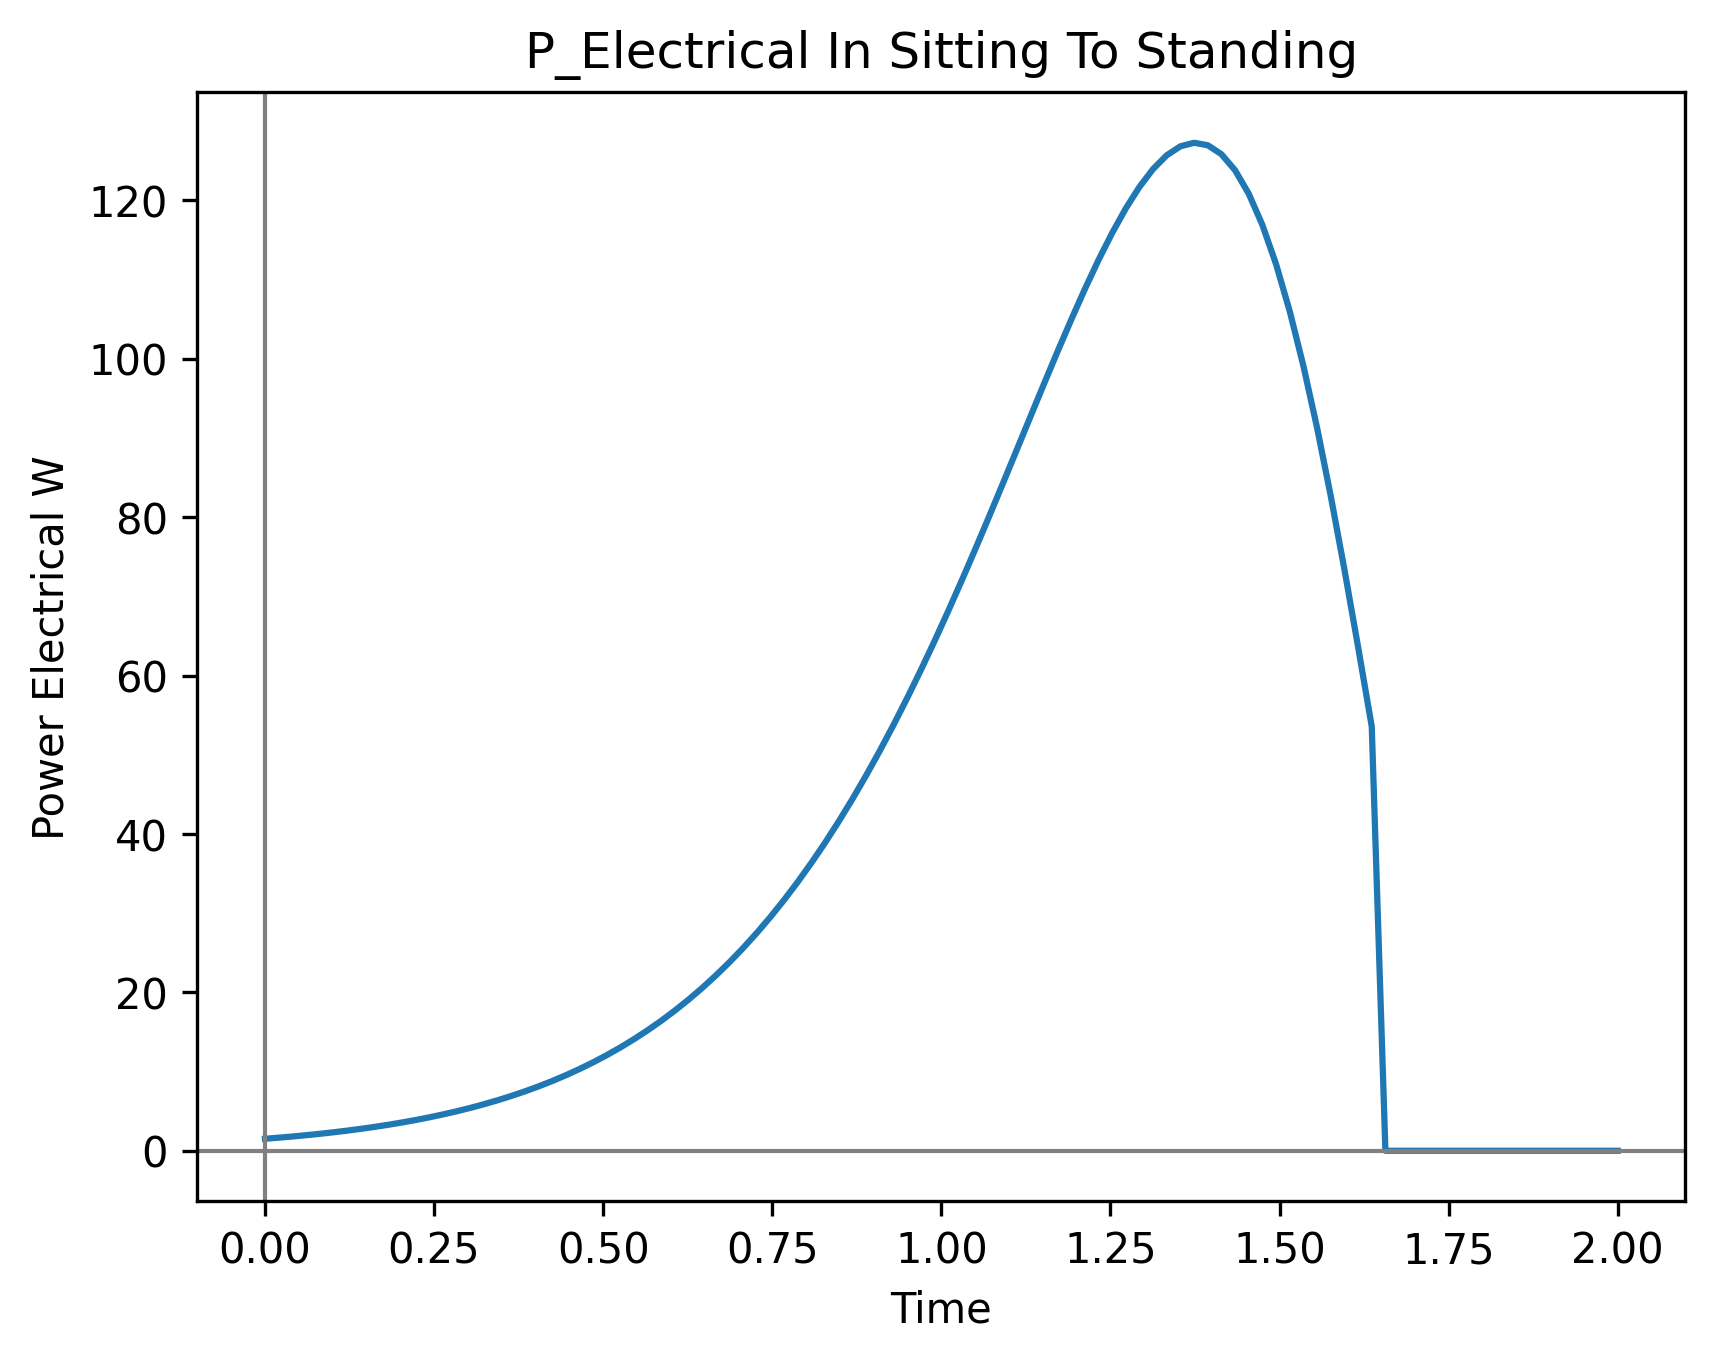
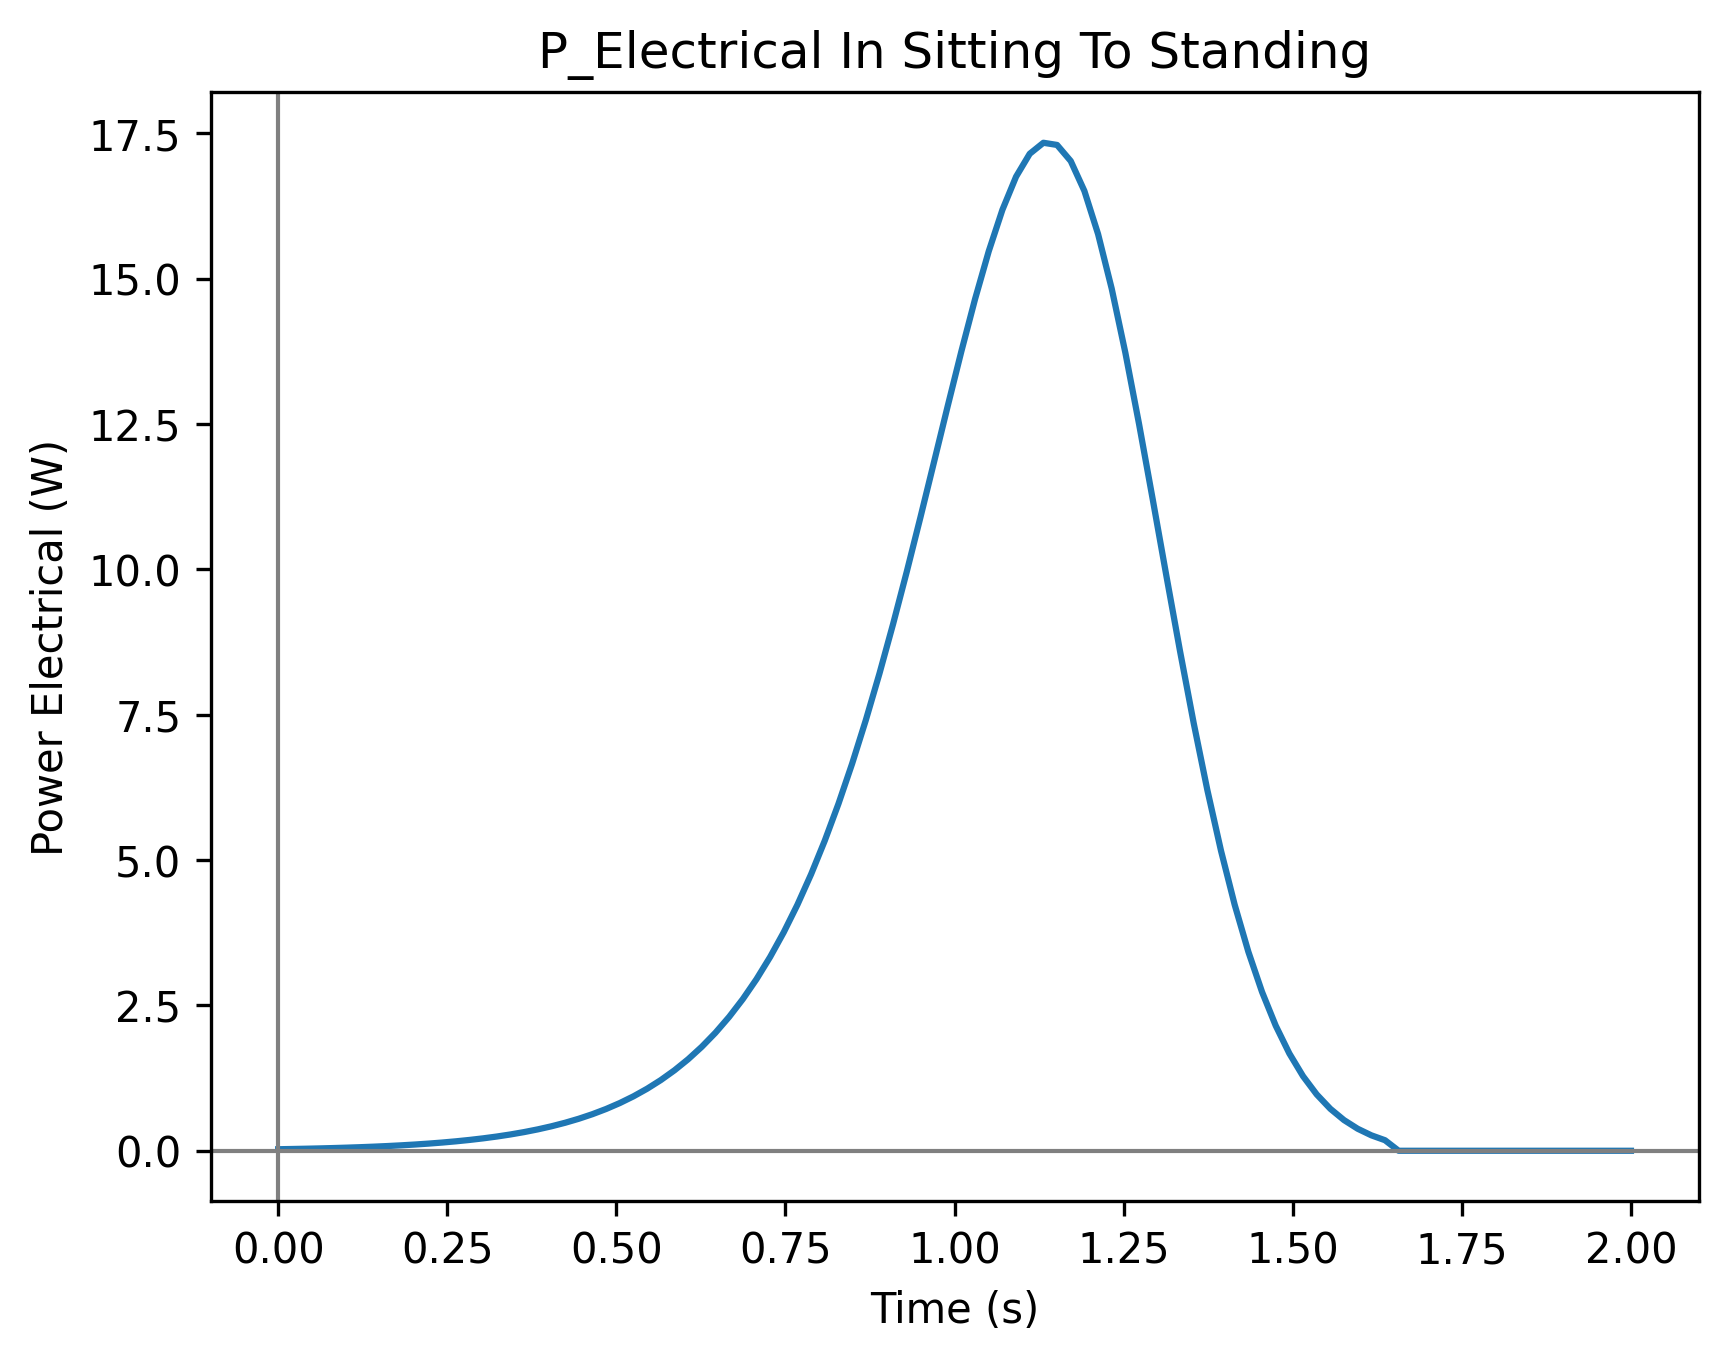
code

diff --git a/Model_1/main.py b/Model_1/main.py
@@ -48,14 +48,13 @@ time_scale = 3.0/2.0
 
 #****************sit to stand stuff****************#
 def angular_velocity_sts(x):
-    return 107.478*((1/np.cosh((x-1.85)/0.37))**2)
+    d_to_r = math.pi/180.0
+    t_old = (3.0/2.0)*x
+    omega = (d_to_r*107.478)*((1/np.cosh(((t_old)-1.85)/0.37))**2)
+    return omega
 def angle_sts_fast(t):
     t_old = time_scale * t
     return 141.33 + 39.77 * np.tanh((t_old - 1.85) / 0.37)
-def angular_velocity_sts_fast(t):
-    t_old = time_scale * t
-    omega_old = 107.478 * (1 / np.cosh((t_old - 1.85) / 0.37))**2
-    return time_scale * omega_old
 
 def get_csv_torque_data():
     global max_torque
@@ -108,9 +107,65 @@ def sts_cycle():
         y_power_elec.append(power_sts(i))
         x_power_elec.append(i)
 
-#****************piecewising****************#
+#****************s curve test****************#
+def plot_s_curve():
+    # --- your original S-curve parameters ---
+    A = 141.33     # vertical shift
+    B = 39.77      # amplitude
+    C = 1.85       # horizontal shift
+    D = 0.37       # slope width
 
-#****************piecewising****************#
+    def angle_sts(t):
+        """Original sit-to-stand S-curve for joint angle (degrees)."""
+        return A + B * np.tanh((t - C) / D)
+
+    # sample time from 0 to 2 seconds
+    t_vals = np.linspace(0.0, 2.0, 400)
+    angle_vals = [angle_sts(t) for t in t_vals]
+
+    # plot
+    plt.figure(figsize=(8,4))
+    plt.plot(t_vals, angle_vals, color="blue")
+    plt.axhline(0, color="gray", linewidth=1)
+    plt.axvline(0, color="gray", linewidth=1)
+    plt.xlabel("Time (s)")
+    plt.ylabel("Angle (degrees)")
+    plt.title("Original S-Curve Angle (0–2 seconds)")
+    plt.grid(True)
+
+    # save instead of showing
+    plt.savefig("s_plot.png", dpi=300, bbox_inches="tight")
+    plt.close()
+
+
+def plot_s_curve_fast():
+    # original parameters
+    A = 141.33
+    B = 39.77
+    C = 1.85
+    D = 0.37
+
+    TIME_SCALE = 3.0 / 2.0  # squeeze 3s movement into 2s
+
+    def angle_sts_old(t):
+        return A + B * np.tanh((t - C) / D)
+
+    def angle_sts_fast(t):
+        t_old = TIME_SCALE * t
+        return angle_sts_old(t_old)
+
+    t_vals = np.linspace(0.0, 2.0, 400)
+    angle_vals = [angle_sts_fast(t) for t in t_vals]
+
+    plt.figure(figsize=(8, 4))
+    plt.plot(t_vals, angle_vals, color="red")
+    plt.xlabel("Time (s)")
+    plt.ylabel("Angle (degrees)")
+    plt.title("Time-Compressed S-Curve Angle (0–2 seconds)")
+    plt.grid(True)
+    plt.savefig("s_plot_fast.png", dpi=300, bbox_inches="tight")
+    plt.close()
+#****************s curve test****************#
 
 def sit_to_stand_plots():
     sts_cycle()
@@ -118,8 +173,8 @@ def sit_to_stand_plots():
     plt.plot(x_power_elec, y_power_elec)
     plt.axhline(y=0, color='gray', linestyle='-', linewidth=1)
     plt.axvline(x=0, color='gray', linestyle='-', linewidth=1)
-    plt.xlabel('Time')
-    plt.ylabel('Power Electrical W')
+    plt.xlabel('Time (s)')
+    plt.ylabel('Power Electrical (W)')
     plt.title('P_Electrical In Sitting To Standing')
     plt.savefig("my_plot.png", dpi=300, bbox_inches="tight")
     #plt.show()
@@ -131,7 +186,7 @@ def test_plot():
     t_vals = np.linspace(0.0, 3.0, 20)
 
     # evaluate your fitted torque function at those times
-    tau_vals = [torque_function(t) for t in t_vals]
+    tau_vals = [angular_velocity_sts(t) for t in t_vals]
 
     plt.figure(7)
     plt.plot(t_vals, tau_vals, marker='o')  # marker='o' so you can see the 20 points
@@ -143,7 +198,6 @@ def test_plot():
     plt.savefig("torque.png", dpi=300, bbox_inches="tight")
     return
 #****************sit to stand stuff****************#
-print("hi")
 def get_power_mech(torque,ang):
     return torque*ang
 
@@ -316,6 +370,8 @@ braking_torque()
 battery_life_estimate()
 sit_to_stand_plots()
 test_plot()
+plot_s_curve()
+plot_s_curve_fast()
 
 
 
